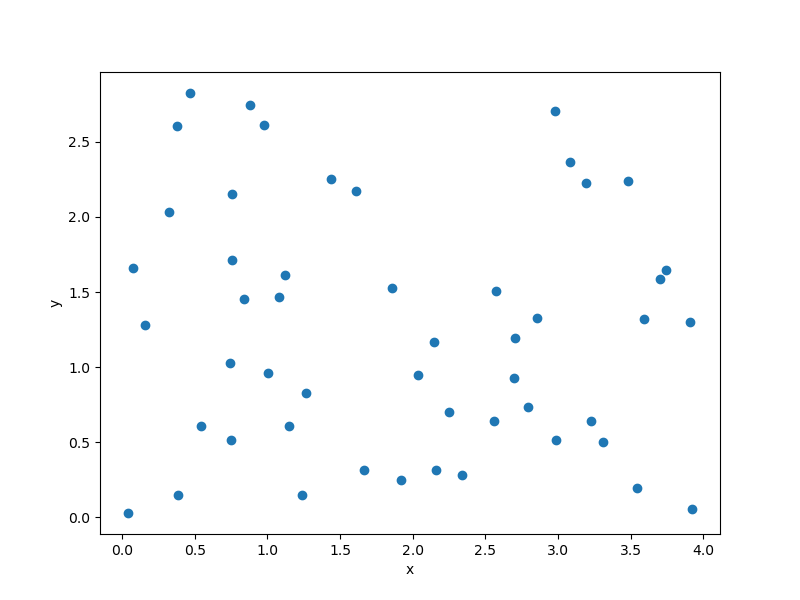
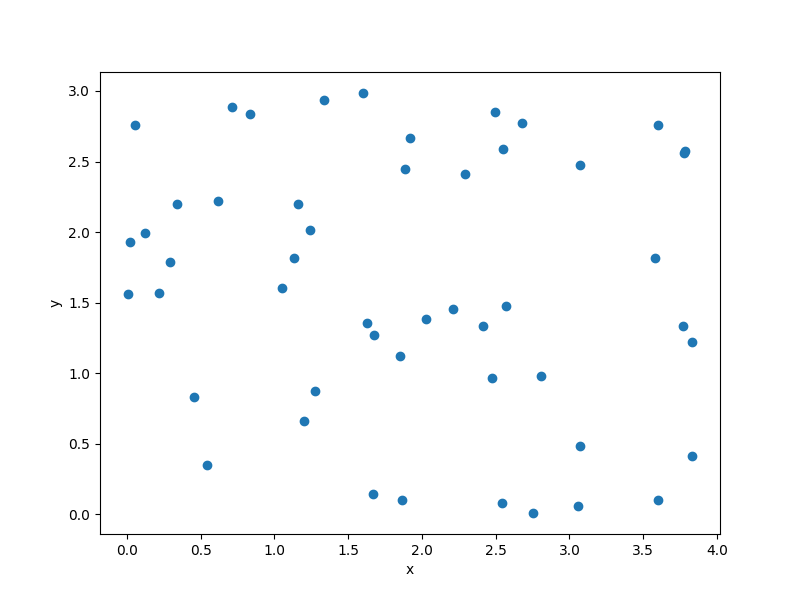
Add the option to specify a seed for the Random sampling method (#696)
* Add the option to specify a seed for the Random sampling method

* Behaviour is controlled by the numpy version used

* Create unit tests

* Update doc with new option and add seed to test function to avoid to generete different image every time the doc is compiled

* Change authors order

---------

diff --git a/smt/sampling_methods/tests/test_random.py b/smt/sampling_methods/tests/test_random.py
@@ -1,0 +1,73 @@
+import unittest
+from unittest.mock import patch
+
+import numpy as np
+import numpy.testing as npt
+
+from smt.sampling_methods import Random
+
+
+class TestRandomSamplingMethod(unittest.TestCase):
+    def setUp(self):
+        self.xlimits = np.array([[0.0, 1.0], [0.0, 1.0]])  # 2D unit hypercube
+
+    def test_random_state_initialization_legacy(self):
+        # Test random state initialization for numpy < 2.0.0
+        with patch("smt.sampling_methods.random.numpy_version", new=(1, 21)):
+            sampler = Random(xlimits=self.xlimits, random_state=12)
+            self.assertIsInstance(sampler.random_state, np.random.RandomState)
+
+    def test_random_state_initialization_new(self):
+        # Test random state initialization for numpy >= 2.0.0
+        with patch("smt.sampling_methods.random.numpy_version", new=(2, 0)):
+            sampler = Random(xlimits=self.xlimits, random_state=12)
+            self.assertIsInstance(sampler.random_state, np.random.Generator)
+
+    def test_random_state_warning_for_generator_legacy(self):
+        # Test that a warning is issued when using Generator with numpy < 2.0.0
+        with (
+            patch("smt.sampling_methods.random.numpy_version", new=(1, 21)),
+            self.assertWarns(FutureWarning),
+        ):
+            sampler = Random(xlimits=self.xlimits, random_state=np.random.default_rng())
+            self.assertIsInstance(sampler.random_state, np.random.RandomState)
+
+    def test_compute_legacy(self):
+        # Test _compute method for numpy < 2.0.0
+        with patch("smt.sampling_methods.random.numpy_version", new=(1, 26)):
+            sampler = Random(xlimits=self.xlimits, random_state=12)
+            points = sampler(4)
+            self.assertEqual(points.shape, (4, 2))
+            self.assertTrue(np.all(points >= 0) and np.all(points <= 1))
+            # Check almost equality with known seed-generated data (example)
+            expected_points = np.array(
+                [
+                    [0.154163, 0.74005],
+                    [0.263315, 0.533739],
+                    [0.014575, 0.918747],
+                    [0.900715, 0.033421],
+                ]
+            )
+            npt.assert_allclose(points, expected_points, rtol=1e-4)
+
+    def test_compute_new(self):
+        # Test _compute method for numpy >= 2.0.0
+        with patch("smt.sampling_methods.random.numpy_version", new=(2, 2)):
+            sampler = Random(xlimits=self.xlimits, random_state=12)
+            points = sampler(4)
+            self.assertEqual(points.shape, (4, 2))
+            self.assertTrue(np.all(points >= 0) and np.all(points <= 1))
+            # Check almost equality with known seed-generated data (example)
+            expected_points = np.array(
+                [
+                    [0.250824, 0.946753],
+                    [0.18932, 0.179291],
+                    [0.349889, 0.230541],
+                    [0.670446, 0.115079],
+                ]
+            )
+            npt.assert_allclose(points, expected_points, rtol=1e-4)
+
+
+if __name__ == "__main__":
+    unittest.main()

diff --git a/smt/sampling_methods/random.py b/smt/sampling_methods/random.py
@@ -6,12 +6,53 @@ This package is distributed under New BSD license.
 Random sampling.
 """
 
+import warnings
+
 import numpy as np
 
 from smt.sampling_methods.sampling_method import ScaledSamplingMethod
 
+# Check NumPy version
+numpy_version = tuple(
+    map(int, np.__version__.split(".")[:2])
+)  # Extract major and minor version
+
 
 class Random(ScaledSamplingMethod):
+    def _initialize(self, **kwargs):
+        self.options.declare(
+            "random_state",
+            types=(type(None), int, np.random.RandomState, np.random.Generator),
+            desc="Numpy RandomState or Generator object or seed number which controls random draws",
+        )
+
+        # Update options values passed by the user here to get 'random_state' option
+        self.options.update(kwargs)
+
+        # RandomState and Generator are and have to be initialized once at constructor time,
+        # not in _compute to avoid yielding the same dataset again and again
+        if numpy_version < (2, 0):  # Version is below 2.0.0
+            if isinstance(self.options["random_state"], np.random.RandomState):
+                self.random_state = self.options["random_state"]
+            elif isinstance(self.options["random_state"], np.random.Generator):
+                self.random_state = np.random.RandomState()
+                warnings.warn(
+                    "numpy.random.Generator initialization of random_state is not implemented for numpy "
+                    "versions < 2.0.0. Using the default np.random.RandomState() as random_state. "
+                    "Please consider upgrading to numpy version > 2.0.0, or use the legacy numpy.random.RandomState "
+                    "class in the future.",
+                    FutureWarning,
+                )
+            elif isinstance(self.options["random_state"], int):
+                self.random_state = np.random.RandomState(self.options["random_state"])
+            else:
+                self.random_state = np.random.RandomState()
+        else:
+            # Construct a new Generator with the default BitGenerator (PCG64).
+            # If passed a Generator, it will be returned unaltered. When passed a legacy
+            # RandomState instance it will be coerced to a Generator.
+            self.random_state = np.random.default_rng(seed=self.options["random_state"])
+
     def _compute(self, nt):
         """
         Implemented by sampling methods to compute the requested number of sampling points.
@@ -30,4 +71,9 @@ class Random(ScaledSamplingMethod):
         """
         xlimits = self.options["xlimits"]
         nx = xlimits.shape[0]
-        return np.random.rand(nt, nx)
+        if numpy_version < (2, 0):  # Version is below 2.0.0
+            return self.random_state.rand(nt, nx)
+        else:
+            # Create a Generator object with a specified seed (numpy.random_state.rand(nt, nx)
+            # is being deprecated)
+            return self.random_state.random((nt, nx))

diff --git a/smt/sampling_methods/tests/test_sampling_method_examples.py b/smt/sampling_methods/tests/test_sampling_method_examples.py
@@ -18,7 +18,7 @@ class Test(unittest.TestCase):
         from smt.sampling_methods import Random
 
         xlimits = np.array([[0.0, 4.0], [0.0, 3.0]])
-        sampling = Random(xlimits=xlimits)
+        sampling = Random(xlimits=xlimits, random_state=12)
 
         num = 50
         x = sampling(num)

diff --git a/doc/_src_docs/sampling_methods/random.rst b/doc/_src_docs/sampling_methods/random.rst
@@ -14,7 +14,7 @@ Usage
   from smt.sampling_methods import Random
   
   xlimits = np.array([[0.0, 4.0], [0.0, 3.0]])
-  sampling = Random(xlimits=xlimits)
+  sampling = Random(xlimits=xlimits, random_state=12)
   
   num = 50
   x = sampling(num)
@@ -52,3 +52,8 @@ Options
      -  None
      -  ['ndarray']
      -  The interval of the domain in each dimension with shape nx x 2 (required)
+  *  -  random_state
+     -  None
+     -  None
+     -  ['NoneType', 'int', 'RandomState', 'Generator']
+     -  Numpy RandomState or Generator object or seed number which controls random draws

diff --git a/doc/_src_docs/sampling_methods.rst b/doc/_src_docs/sampling_methods.rst
@@ -25,7 +25,7 @@ Usage
   from smt.sampling_methods import Random
   
   xlimits = np.array([[0.0, 4.0], [0.0, 3.0]])
-  sampling = Random(xlimits=xlimits)
+  sampling = Random(xlimits=xlimits, random_state=12)
   
   num = 50
   x = sampling(num)

diff --git a/AUTHORS.md b/AUTHORS.md
@@ -15,6 +15,7 @@ SMT has been developed thanks to contributions from:
 * Andres Lopez Lopera
 * Antoine Averland
 * Emile Roux
+* Enrico Stragiotti
 * Ewout ter Hoeven
 * Florent Vergnes
 * Frederick Zahle
